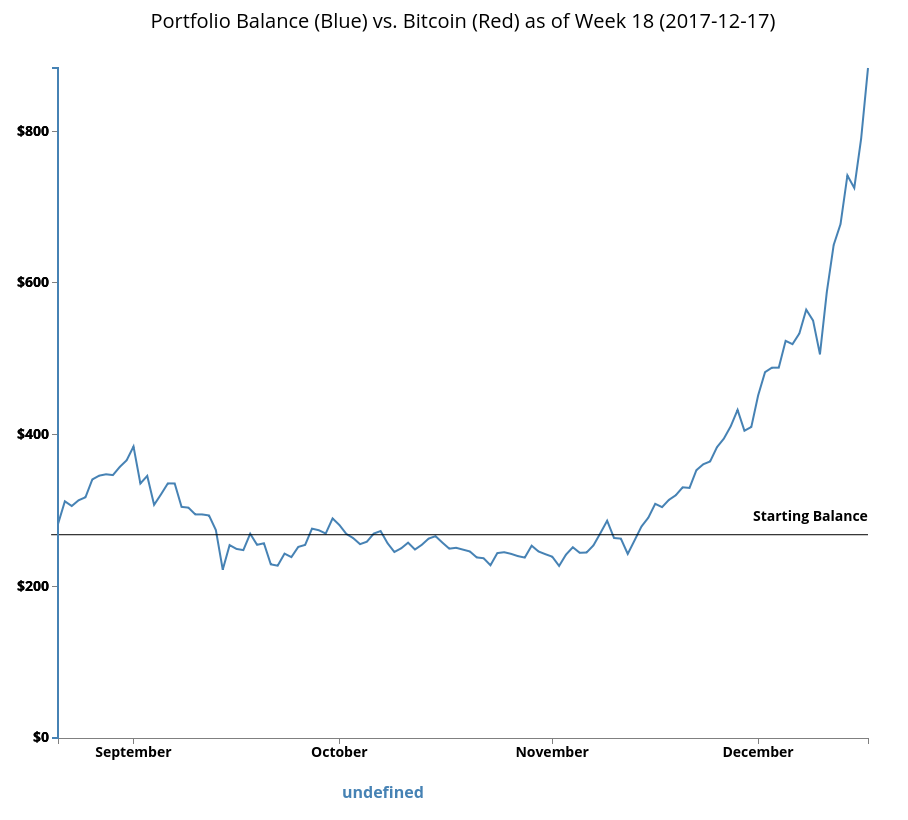
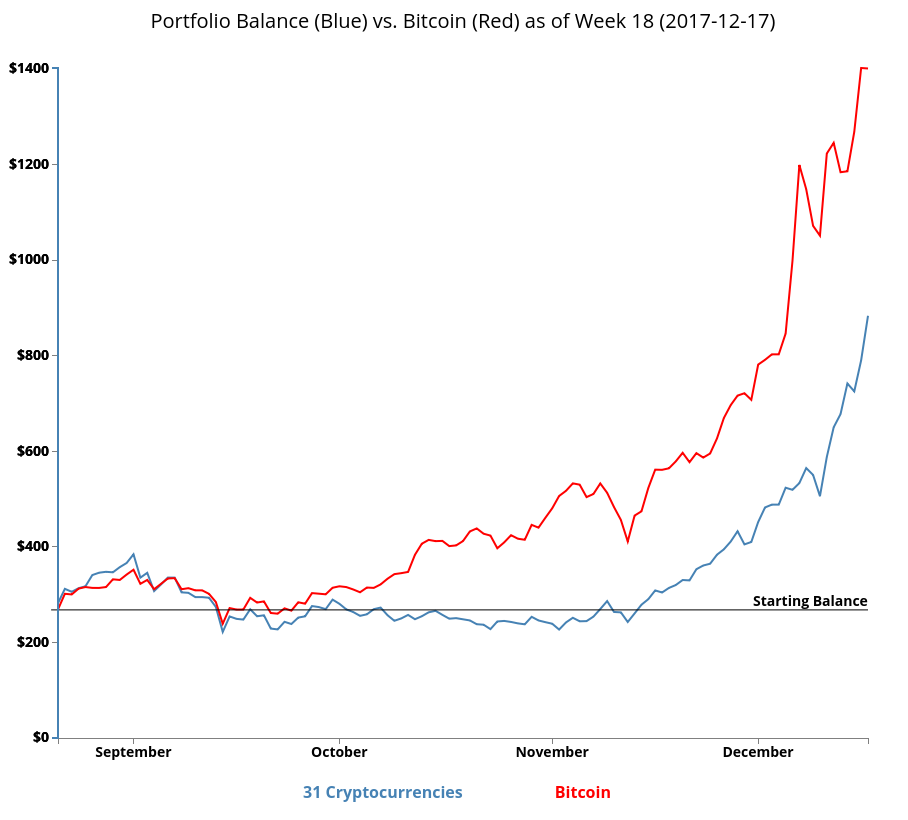
Some tweaks.

diff --git a/html/portfolio-vs-bitcoin.html b/html/portfolio-vs-bitcoin.html
@@ -63,7 +63,7 @@
             .attr("transform", "translate(" + margin.left + "," + margin.top + ")");
         var curDateUnformatted = getUrlParameter('date');
         var curDate = curDateUnformatted.replace(/-/g, '');
-        d3.json('../data/balances/' + curDate + '-balance.json', function (error, data) {
+        d3.json('../data/balances/' + curDate + '-balance-vs-btc.json', function (error, data) {
             data.forEach(function(d) {
                 d.date = new Date(d.date);
                 d.balance = +d.balance;

diff --git a/html/diverge.html b/html/diverge.html
@@ -15,7 +15,7 @@
         shape-rendering: crispEdges;
     }
 </style>
-<script src="http://cdnjs.cloudflare.com/ajax/libs/d3/3.4.13/d3.min.js"></script>
+<script src="https://cdnjs.cloudflare.com/ajax/libs/d3/3.4.13/d3.min.js"></script>
 </head>
 <body>
     <div id="figure" style="margin-bottom: 50px;"></div>
